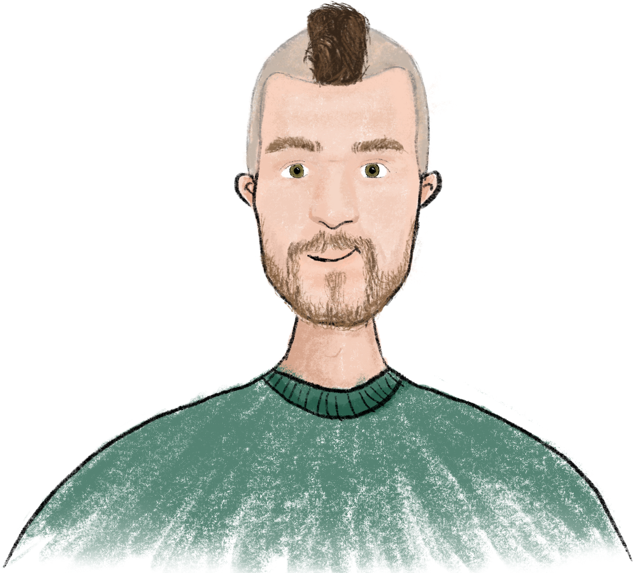
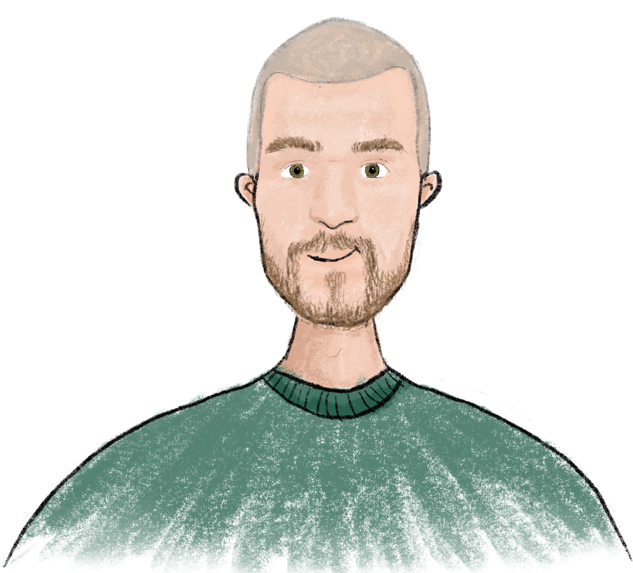
put hairstyle feature

Changed region(s): [[0.4803, 0.0, 0.6003, 0.1483], [0.6603, 0.178, 0.6904, 0.3264], [0.6303, 0.089, 0.6603, 0.1187]]

diff --git a/components/intro.js b/components/intro.js
@@ -1,22 +1,42 @@
+import { useState } from 'react'
+
 import Hero from "./hero";
 
+const hairList = ['', 'mohawk', 'gray', 'long']
+
 export default function Intro() {
+  const [reveal, setReveal] = useState(false)
+  const [hairStyle, setHairStyle] = useState('mohawk')
+  const filteredHairList = hairList.filter(style => style !== hairStyle)
+  const changeAvatar = () => {
+    setReveal(true)
+    setHairStyle(filteredHairList[Math.floor(Math.random() * filteredHairList.length)])
+  }
+
   return (
     <div className="container">
       <section>
-        <div className="avatar">
-          <picture>
+        <div className="avatar" onClick={changeAvatar}>
+          <picture className="top">
             <source
-              srcSet="/avatar_256.webp 1x, /avatar_384.webp 2x, /avatar_640.webp 3x"
+              srcSet="/avatar_256.webp 1x, /avatar_640.webp 2x, /avatar_828.webp 3x"
               type="image/webp"
             />
             <source srcSet="/avatar.png" type="image/png" />
             <img
               alt="Drawing of Kerem Sevencan"
-              src="/avatar_640.webp"
+              src="/avatar_828.webp"
               style={{ width: '12rem', height: '10.7rem' }}
             />
           </picture>
+          {hairStyle !== '' &&
+            <img
+              alt={`${hairStyle} of Kerem`}
+              src={`/${hairStyle}_hair.png`}
+              className={reveal ? 'bottom reveal' : 'bottom'}
+              onAnimationEnd={() => setReveal(false)}
+            />
+          }
         </div>
         <Hero
           label="DIGITAL EXPERIENCE DEVELOPER"
@@ -45,12 +65,45 @@ export default function Intro() {
       </section>
       <style jsx>{`
         .avatar {
+          position: relative;
           display: block;
           margin-bottom: 2rem;
+          height: 11rem;
+          cursor: pointer;
         }
-        .avatar img {
+        .avatar img.top {
+          position: absolute;
           animation-name: example;
           animation-duration: 0.5s;
+        }
+        .avatar img.bottom {
+          position: absolute;
+          z-index: 2;
+          width: 4.8rem;
+          height: 4.6rem;
+          left: 3.95rem;
+          top: -0.55rem;
+        }
+        .avatar img.bottom.reveal {
+          animation-name: reveal;
+          animation-duration: 0.8s;
+          animation-timing-function: ease-in-out;
+          transform: scale(1.2);
+        }
+        @keyframes reveal {
+          0% {
+            opacity: 0;
+            transform: scale(1.1);
+          }
+          30% {
+            transform: scale(1.1);
+          }
+          60% {
+            opacity: 1;
+          }
+          100% {
+            transform: scale(1);
+          }
         }
         @keyframes example {
           from {
